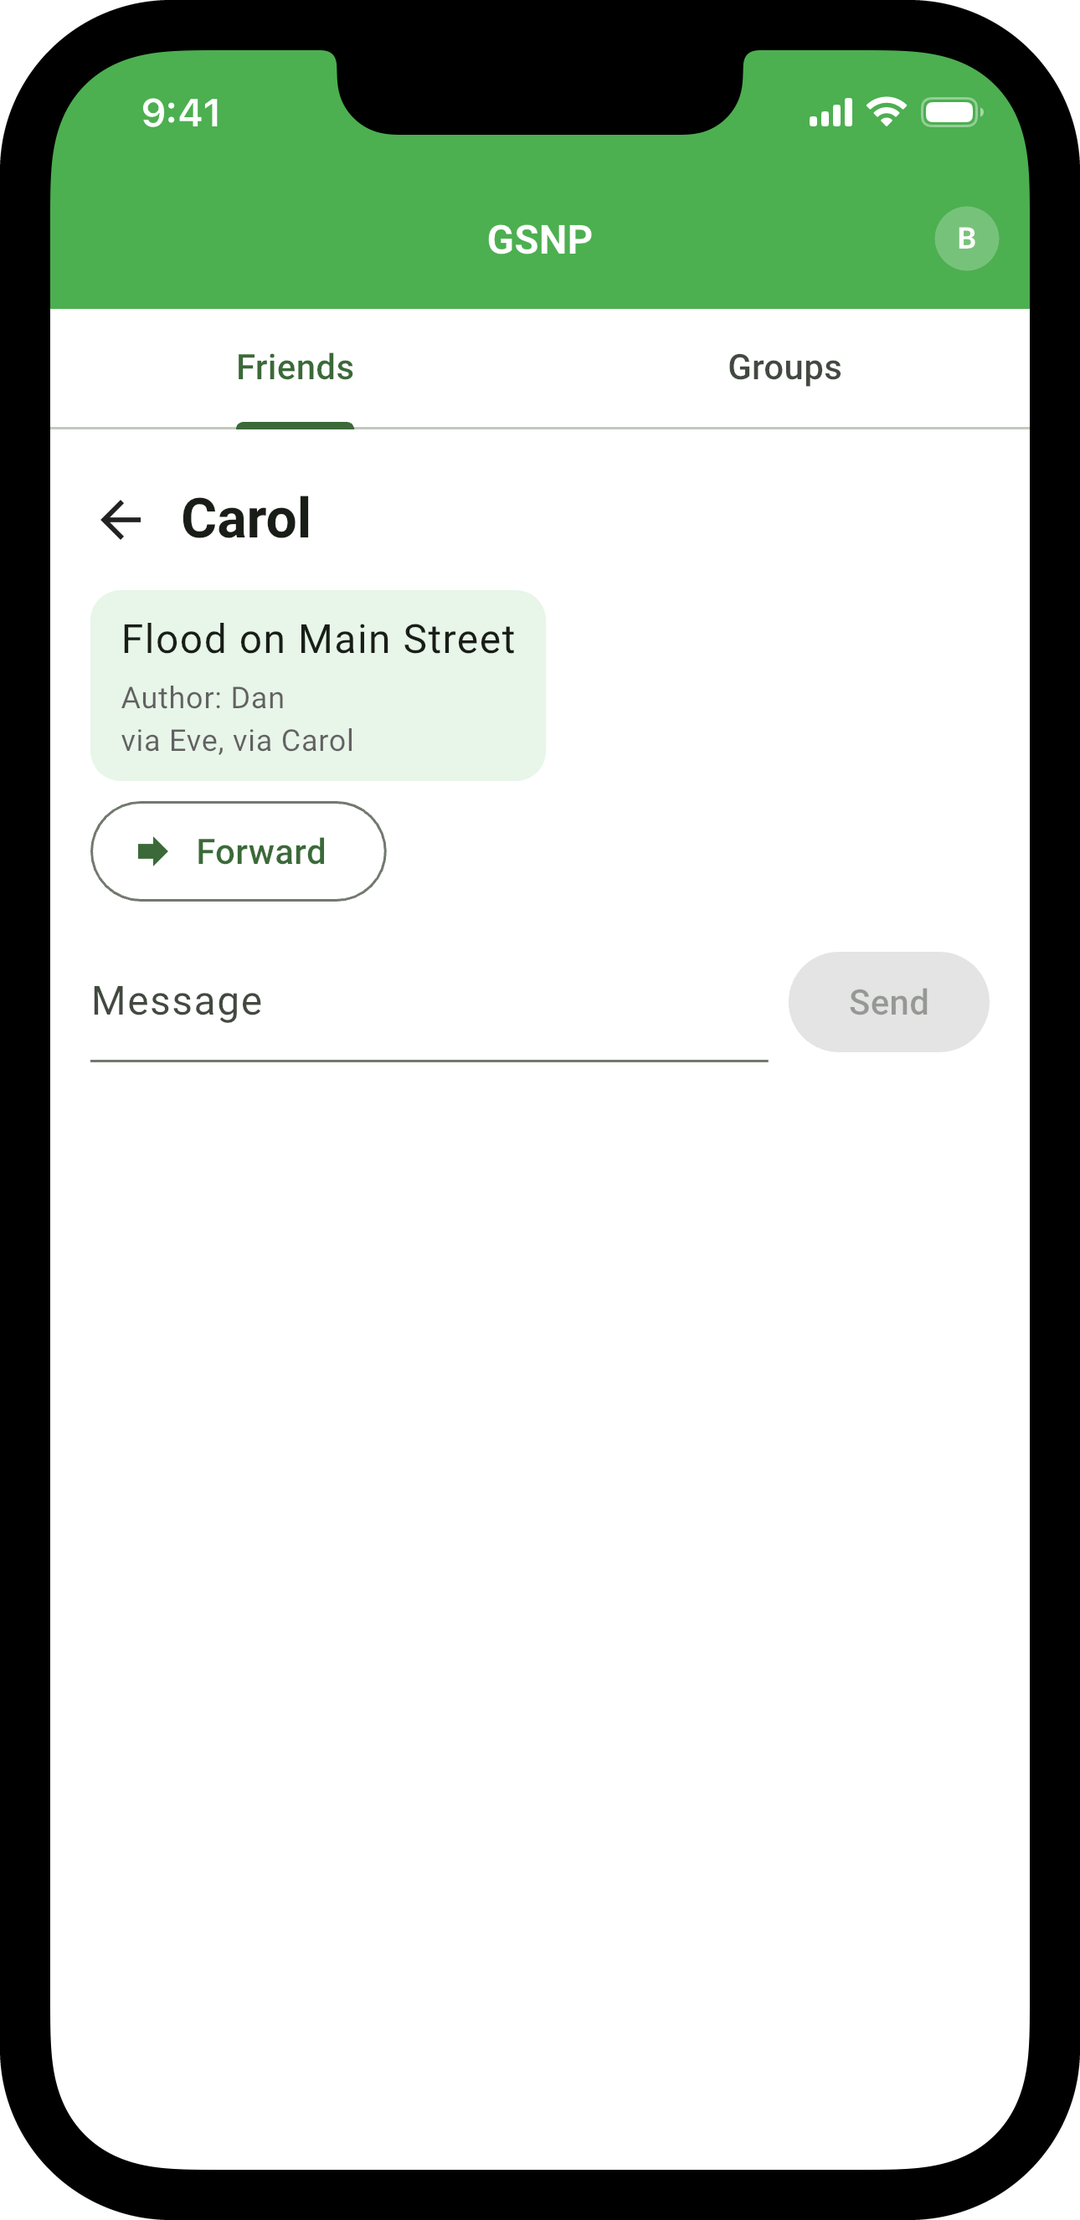
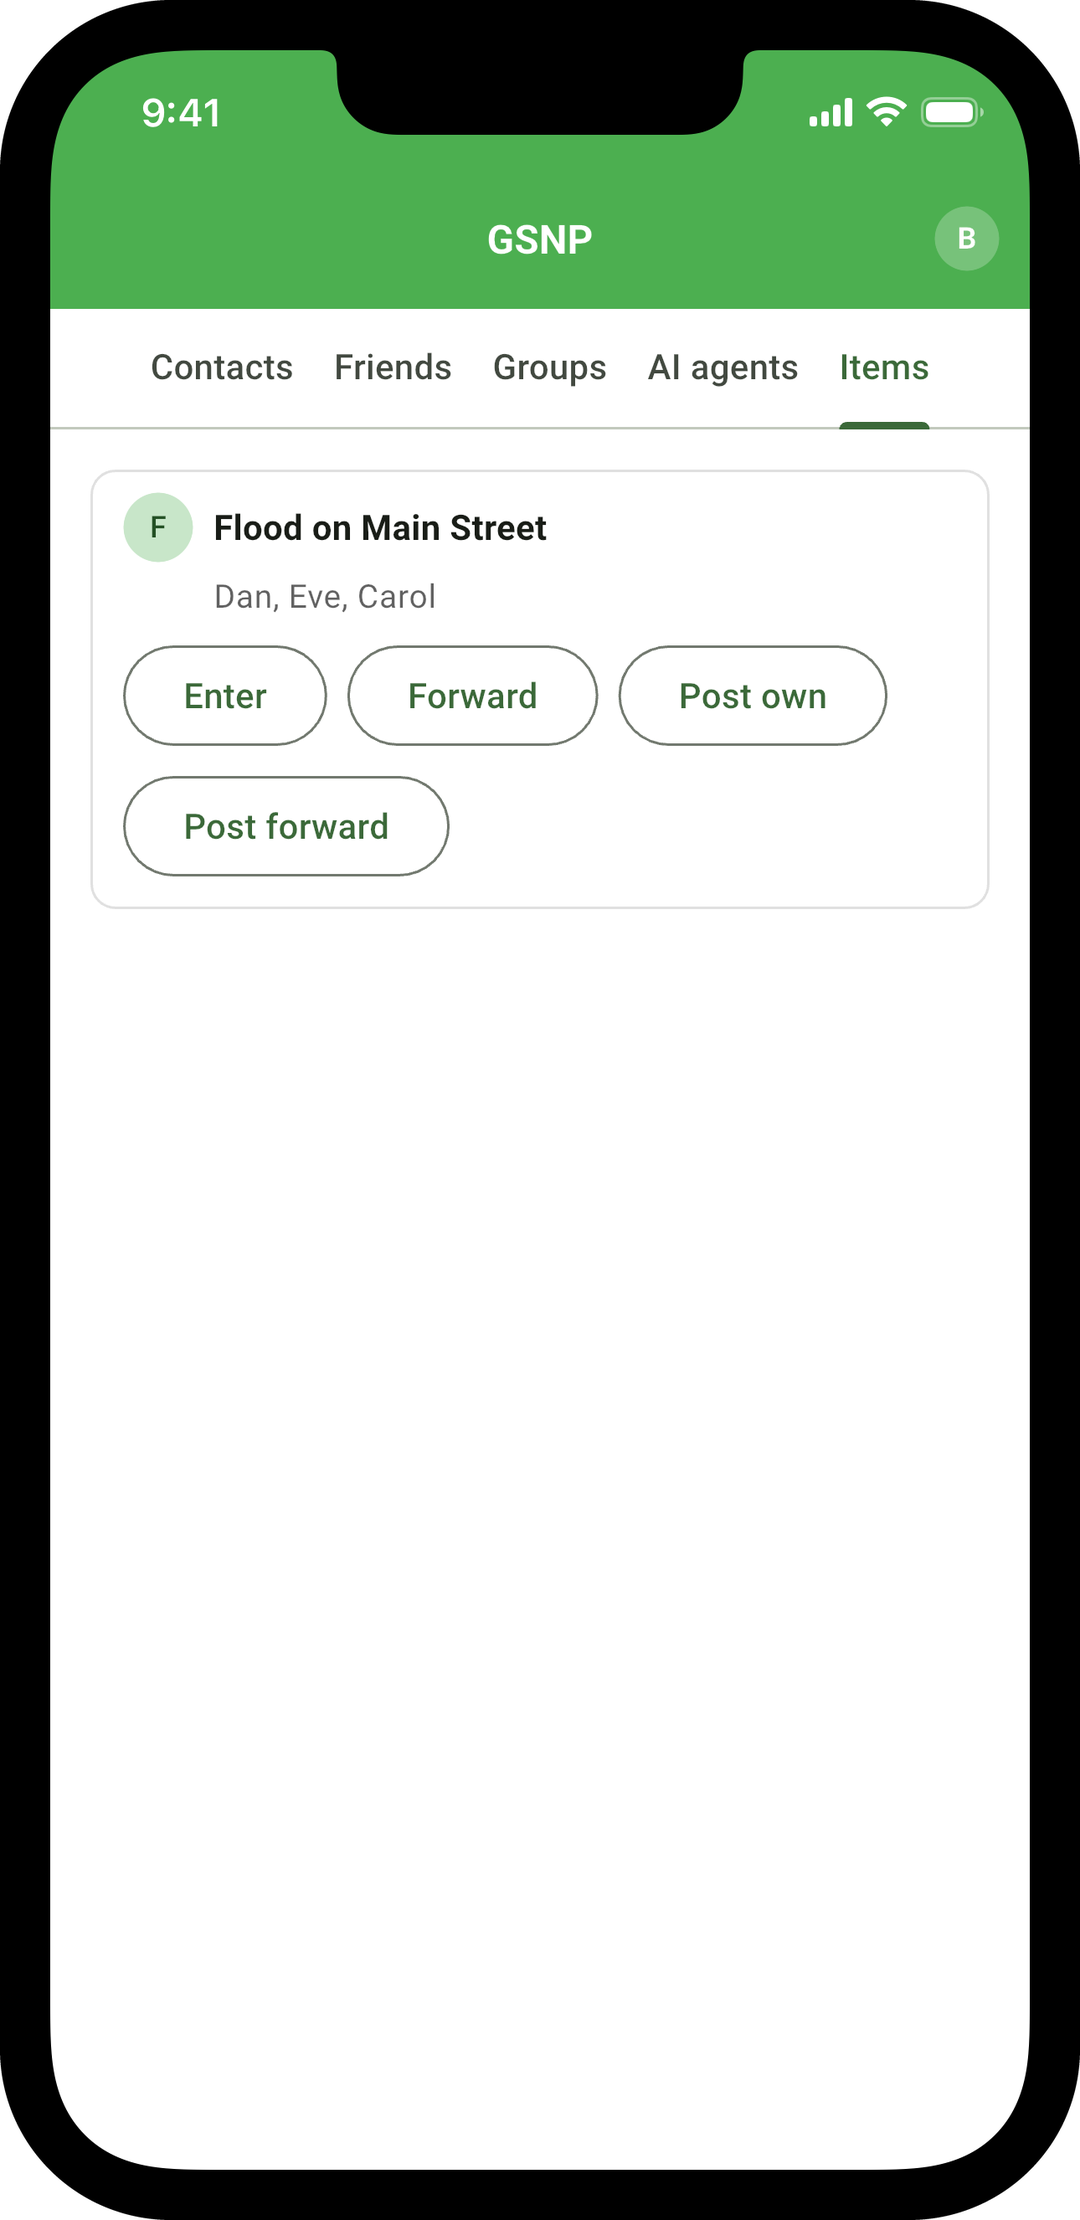
GSNP's app: the screens of GAI's figures "The GSNP app" and "The GAI app" taken on the iOS Simulator from the app compiled from GSNP's contract and pragmas, and their README

diff --git a/programs/apps/gsnp/screens/README.md b/programs/apps/gsnp/screens/README.md
@@ -1,8 +1,8 @@
 # The screens of GSNP's app
 
-The screens of GAI's figure of GSNP's app (Code_inbox.md, GAI #3 Cowork, 2026-10-19 13:31 UTC, items 4 and 5, and its fourth screen, GAI #5 Cowork, 2026-10-19 22:29 UTC), in the figure's order: Bob's and Fay's phones as the construct family draws the app, one screen with the tabs Friends and Groups, drawn from the last view the agent wrote (`../README.md`, "The screens").  Each file is one phone's screen taken on the iOS Simulator, an iPhone 16e, 390 by 844 points at 3 pixels a point, its status bar at 9:41 with full signal, Wi-Fi and battery, in the light theme, set in Roboto; the simulator's screenshot is the display alone, so it is framed as the phone, in a black bezel with rounded corners, 1080 by 2220 pixels on white, as vGLP's figure of the app is (`vGLP/figures/gsg-app-friends.png`).
+The screens of GAI's two figures of the app, "The GSNP app" and "The GAI app", taken from GSNP's app, the full platform, which extends GAI (Code_inbox.md, GAI #8 Cowork, 2026-10-24 10:47 UTC: "The four screens of the GAI figure are taken from the GSNP app, the full platform").  The app is compiled from GSNP's contract and pragmas and those of the contracts it extends, and drawn by the construct family (`../README.md`, "The screens").  Each file is one phone's screen taken on the iOS Simulator, an iPhone 16e, 390 by 844 points at 3 pixels a point, its status bar at 9:41 with full signal, Wi-Fi and battery, in the light theme, set in Roboto; the simulator's screenshot is the display alone, so it is framed as the phone, in a black bezel with rounded corners, 1080 by 2220 pixels on white, as vGLP's figure of the app is (`vGLP/figures/gsg-app-friends.png`).
 
-They are taken by `glp_multiagent/tool/sim_screens.sh`, which plays on the simulator the scenario of `glp_multiagent/test/apps_screens_test.dart`: it loads this app, runs its entry `miniapp/4` for Dan, Eve, Carol, Bob and Fay over four conversations, Dan's with Eve, Eve's with Carol, Carol's with Bob and Bob's with Fay, and takes each person's acts by tapping and typing on the tabs' controls.  From `glp_multiagent/`:
+They are taken by `glp_multiagent/tool/sim_screens.sh`, which plays on the simulator the scenario of `glp_multiagent/test/apps_screens_test.dart`: it loads this app and runs its entry `miniapp/4`, once for Dan, Eve, Carol, Bob and Fay over four conversations, and once for Acme Ltd, Alice, Alf and Bob over four, Alf scripted by `../person.glp`, its script the AI agent's program; it takes each person's acts by tapping and typing on the tabs' controls.  From `glp_multiagent/`:
 
 ```bash
 bash tool/sim_screens.sh
@@ -10,10 +10,22 @@ bash tool/sim_screens.sh
 
 The script builds the bundled assets (`tool/sync_glp_assets.sh`), boots the simulator, sets its status bar, and runs the scenario there (`integration_test/apps_screens_test.dart`), one person's phone on the screen at a time; at each screen the host takes the simulator's screenshot, `xcrun simctl io <device> screenshot --mask=alpha`, and `tool/sim_shot.py` draws the bezel around it and writes it here, under the screen's name.  The same scenario runs headless in the suite, `flutter test test/apps_screens_test.dart`, the phones side by side in the test's view: it takes every act and checks every screen, and writes nothing.
 
-The three screens below were taken from the app as it was drawn before GSNP's contract carried pragmas, in words since moved out of the app; they are re-taken from the app compiled from GSNP's contract and pragmas once vGLP's paper places Forward, whose item no field and no group fills (`../README.md`, "The screens").
+GAI's Figure "The GSNP app":
 
 | File | What it shows |
 |---|---|
-| `gsnp-a-bob-chat.png` | Bob's chat with Carol, the item "Flood on Main Street" with "Author: Dan" and "via Eve, via Carol", and Forward under it. |
-| `gsnp-b-bob-forward.png` | The same screen after Bob taps Forward and picks Fay, with the question "Forward to Fay?  You warrant that you know Carol personally." and the buttons Yes and No. |
-| `gsnp-c-fay-chat.png` | Fay's chat with Bob after he taps Yes and the item is forwarded to her: the item "Flood on Main Street" with "Author: Dan" and "via Eve, via Carol, via Bob", and Forward under it. |
+| `gsnp-a-bob-chat.png` | Bob's Items tab: the item "Flood on Main Street", under it "Dan, Eve, Carol", its author and the agents that forwarded it, in order, and beside it Enter, Forward, Post own and Post forward. |
+| `gsnp-b-bob-forward.png` | The same tab after Bob taps Forward and picks Fay under Peer: the warranty "You warrant that you know personally the agent you received this from." and the button Forward. |
+| `gsnp-c-fay-chat.png` | Fay's Items tab after the forward: the item with "Dan, Eve, Carol, Bob" under it. |
+| `gai-a-bob-chat-alf.png` | Bob's Items tab: the item "Today's summary of the news", under it "Alf", its author, and beside it Enter, Forward, Post own and Post forward. |
+
+GAI's Figure "The GAI app", in the order of its play:
+
+| File | What it shows |
+|---|---|
+| `gai-b-alice-agents.png` | Alice's AI agents tab after she entered Alf: Sign with its field text; Alf, under it "Alice, The code of Alf", her record of Alf, its principal and its attestation; and beside Alf the buttons of the acts whose variable its row fills. |
+| `gai-c-alice-asked.png` | The same tab as Alice, Alf's principal, proposes Alf's befriending Bob: Agent befriend opened beside Alf, Bob picked under Peer, and the button Agent befriend. |
+| `gai-d-bob-asked.png` | Bob's AI agents tab, asked GAI's question "Alf, an AI agent, asks to befriend you.", with yes and no. |
+| `gai-e-bob-friends.png` | Bob's Friends tab after his yes: Alf, his friend, under it "Alice, The code of Alf", his record of Alf, and beside it the buttons of the acts whose variable its row fills. |
+
+The words on these screens are the contracts' pragmas, the platform's yes and no, and Peer, the name of the type of a place no pragma names a field for (vGLP, Section 6.2, "The words a platform shows").  The developer, Acme Ltd, is not drawn: a row shows the atoms naming its item, and Bob's record of Alf, `agent_of(alf, alice, y)`, is drawn by Alice and the text of the attestation `y`, not by its signers; and GAI's question names the AI agent and not its principal or its developer.
